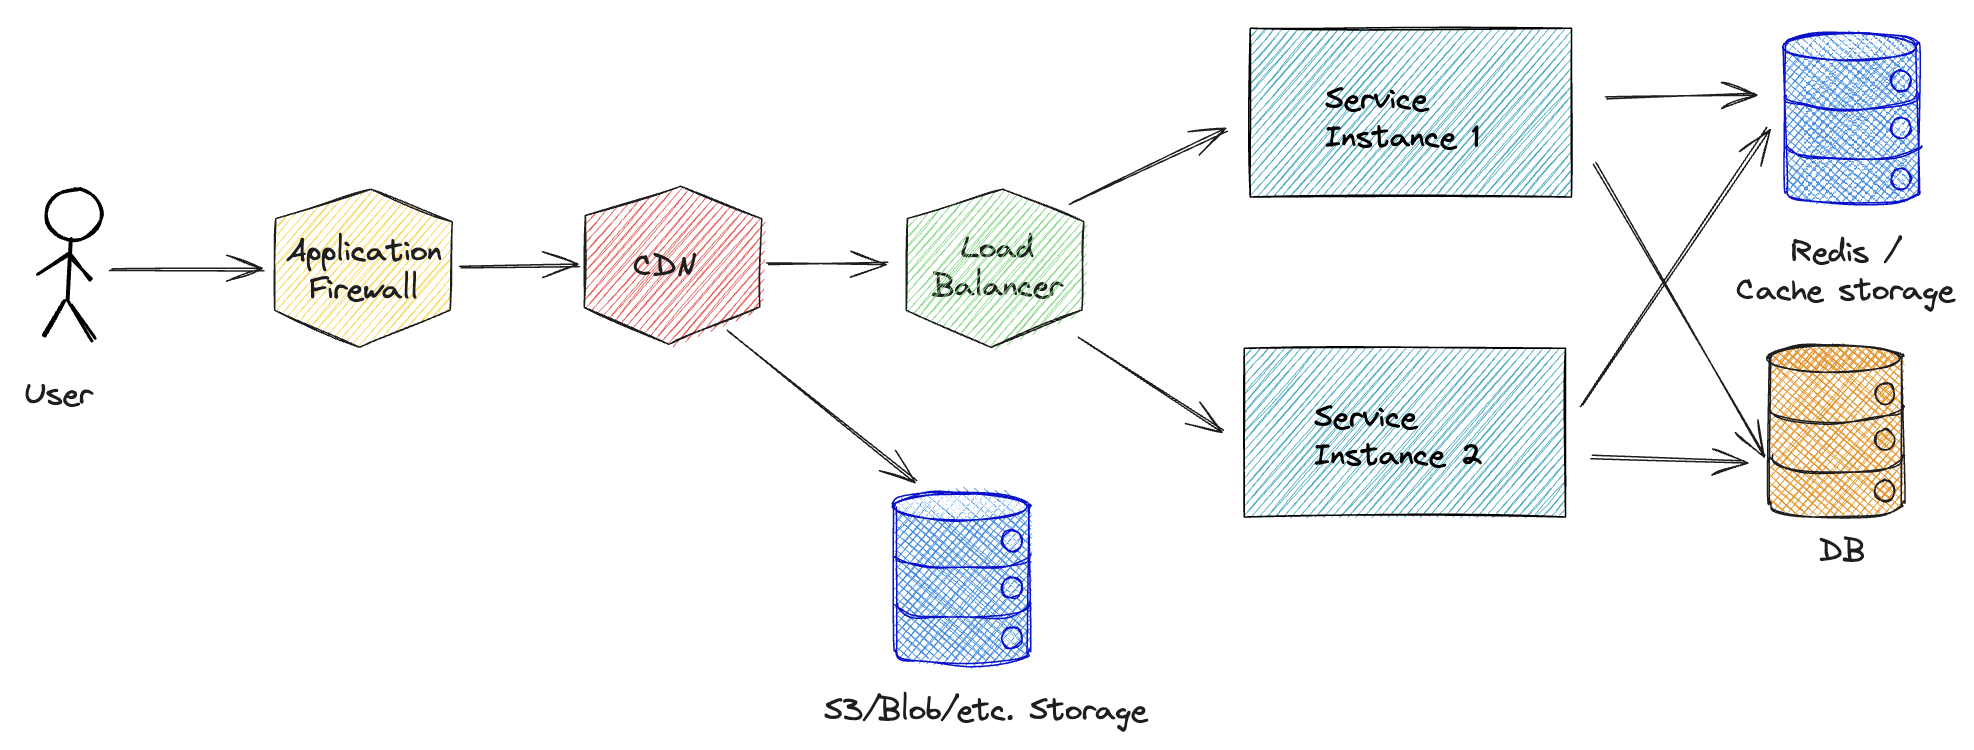
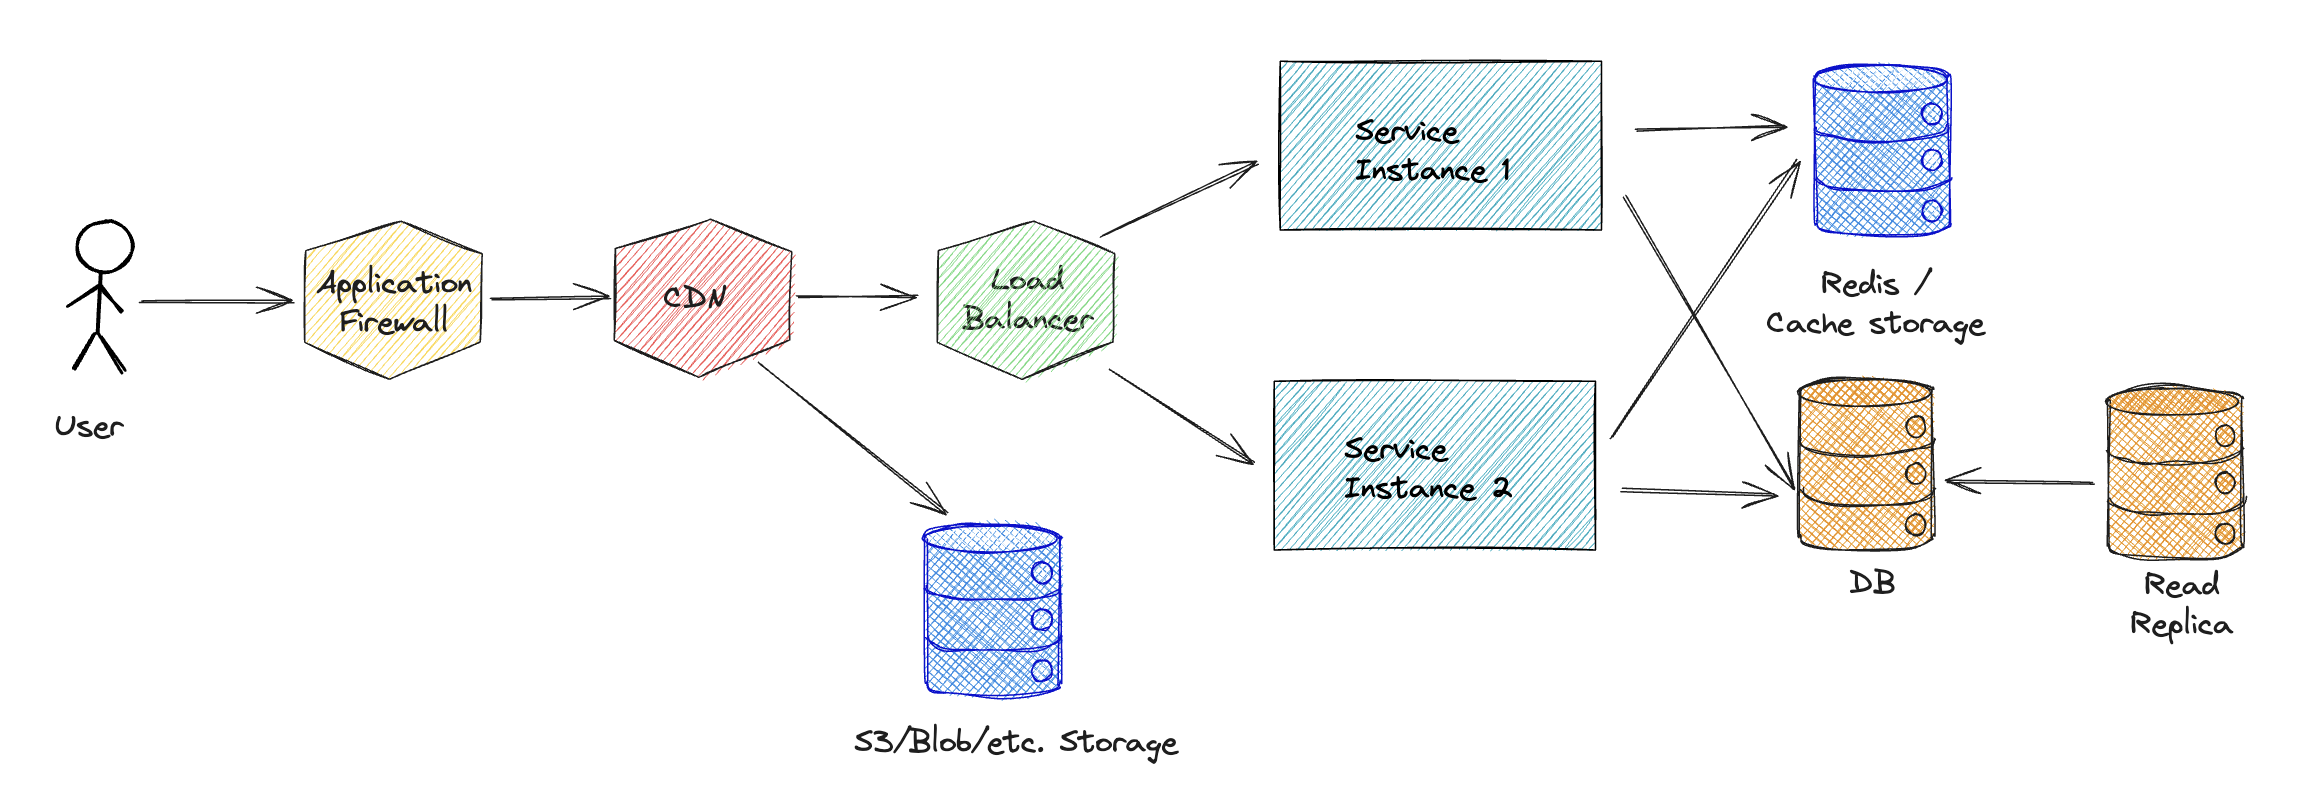
Add database read replica to securing api post

diff --git a/_posts/2024-6-13-securing-web-app.md b/_posts/2024-6-13-securing-web-app.md
@@ -223,6 +223,18 @@ WAF can be implemented in various ways:
 
 Regardless of the measures taken, it is crucial to have a documented plan in place for when the system is under attack. This plan should include __step-by-step instructions__ detailing actions to take during an attack. The plan should be clear and easy to follow, enabling engineers without much expertise on the topic to take appropriate action effectively.
 
+## Database Read Replicas
+
+Read replicas are copies of the main database that handle read queries, improving performance and reducing the load on the primary database.
+
+Benefits of Read Replicas:
+
+* __Improved Performance:__ Offload read queries from the main database.
+* __High Availability:__ Serve as backups in case the main database fails.
+* __Reporting and Analytics:__ Run complex queries without affecting the primary database.
+* __Audit Logs:__ Store audit logs separately, preserving main database resources.
+
+High availability and reporting/analytics are common use cases for read replicas. Many services offer the setup of read replicas out of the box, but it can also be implemented manually.
 
 ## Bonus: How to Scale an Application to Millions of Users
 
